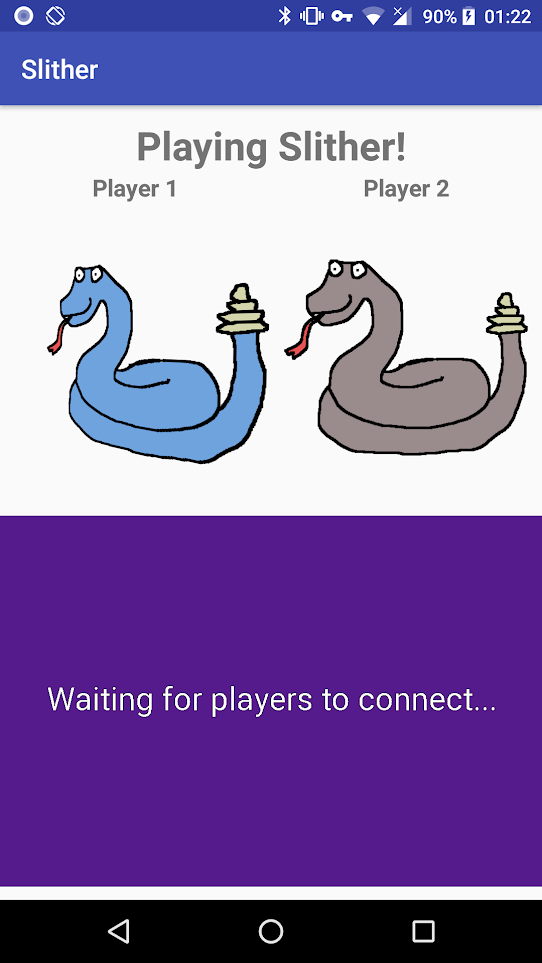
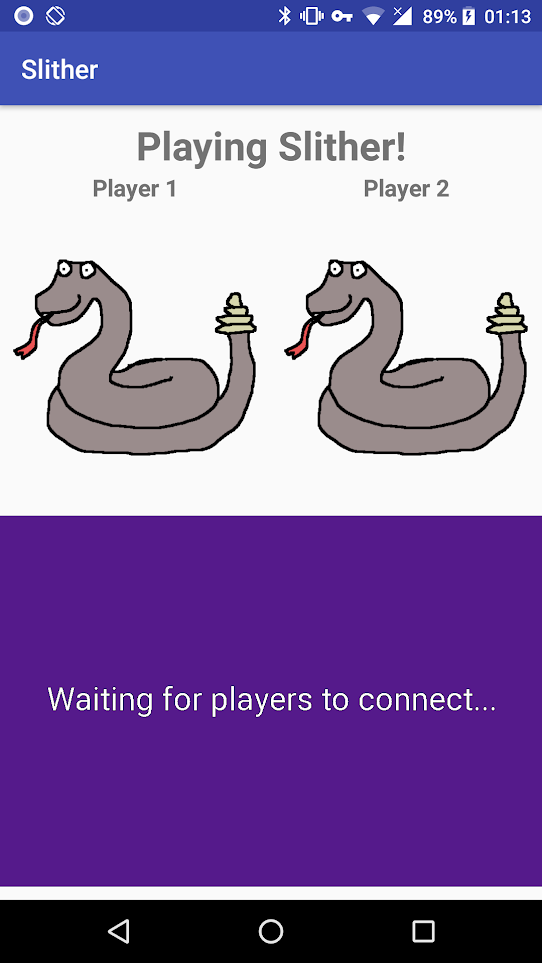
Update the readme

Changed region(s): [[0.0295, 0.2492, 0.5018, 0.4984], [0.738, 0.0, 0.8266, 0.0312], [0.9446, 0.0, 0.9742, 0.0312]]

diff --git a/README.md b/README.md
@@ -78,15 +78,11 @@ devices. Before any micro:bits are found, the app should display both
 players as disconnected via greyed out snakes, with a message
 `Waiting for players to connect...`.
 
-![](img/begin.png)
+![](img/connect.png)
 
 Once one player has been found, their avatar should light up. All
 movements of the micro:bit device are rendered to their avatar.
-
-![](img/connect.png)
-
-When both players are connected, both avatars are lit up and movements
-are displayed with them. The game has now begun. The bottom purple
+The game starts once both players are connected. The bottom purple
 screen in the app is where the snake game is played. Two snakes should
 appear, with the same colour as their given avatar. Movements of the
 micro:bit device steer the direction in which the snake moves, and they
@@ -118,6 +114,12 @@ map.
 Once a player has reached the score of 100, the game is complete. The
 player to achieve the winning score is displayed on the screen. Also the
 the total number of points both players achieved will be displayed just
-below the winner.
+below the winner. Both micro:bit devices will be notified whether they
+have won or lost the match, then a message will scroll on their LED
+screens.
+
+After five seconds of displaying the game outcome, a new game will begin.
+Both players points, locations and sizes will be reset and the game will
+be ready to play from fresh.
 
 ![](img/complete.png)
